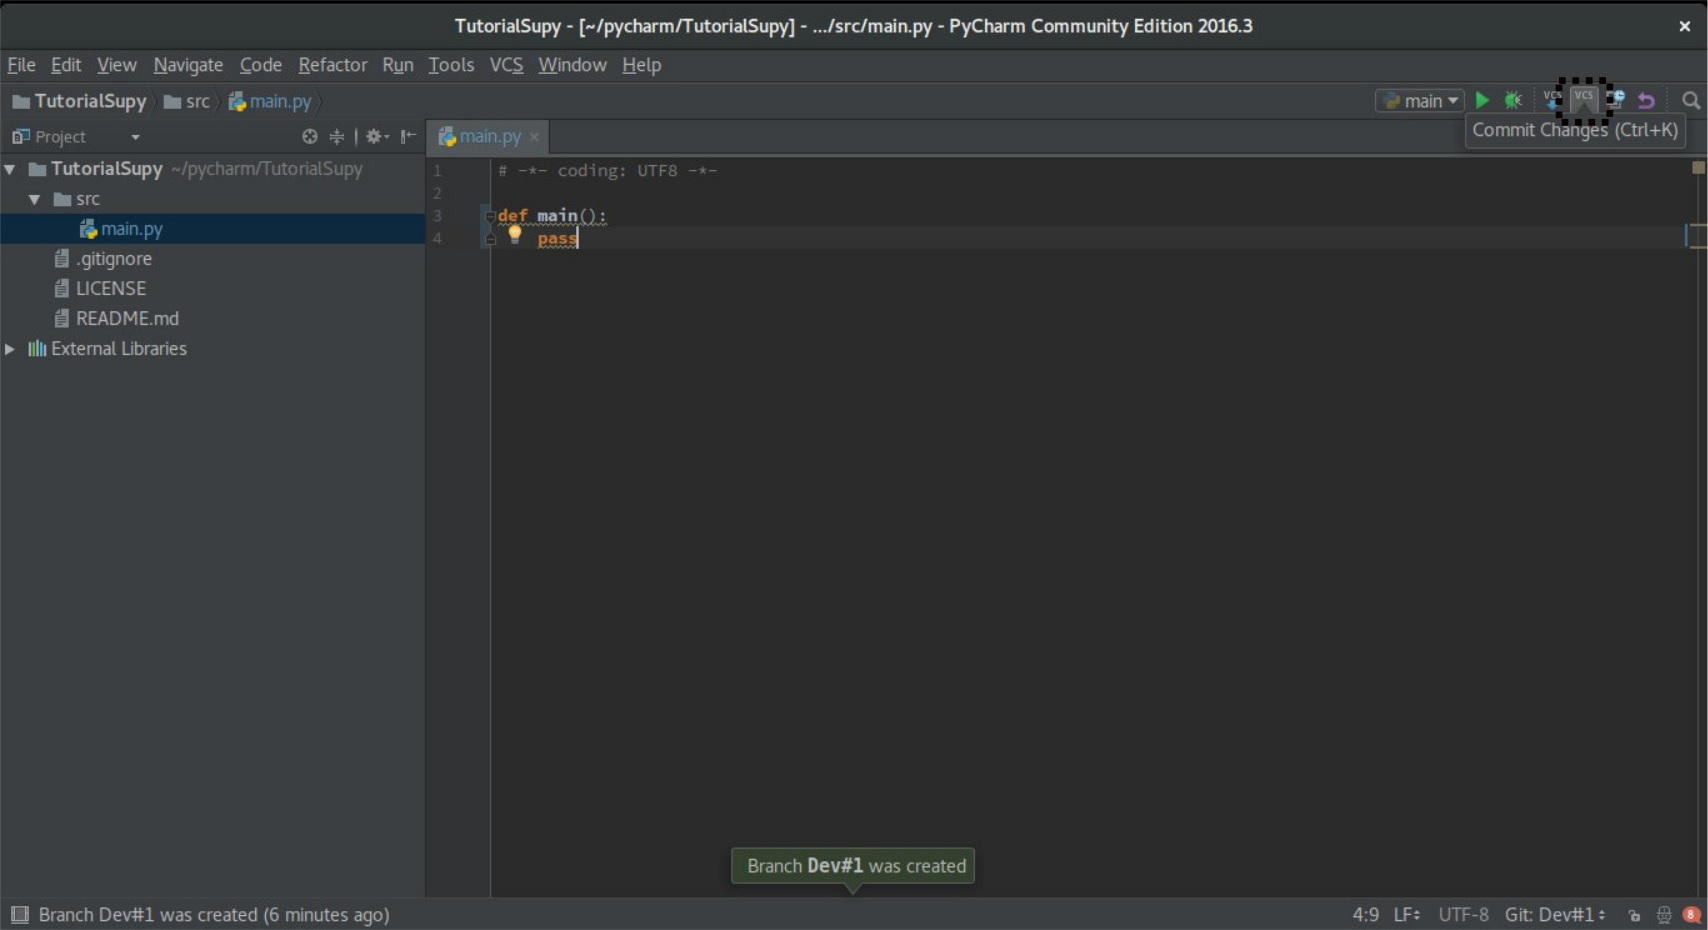
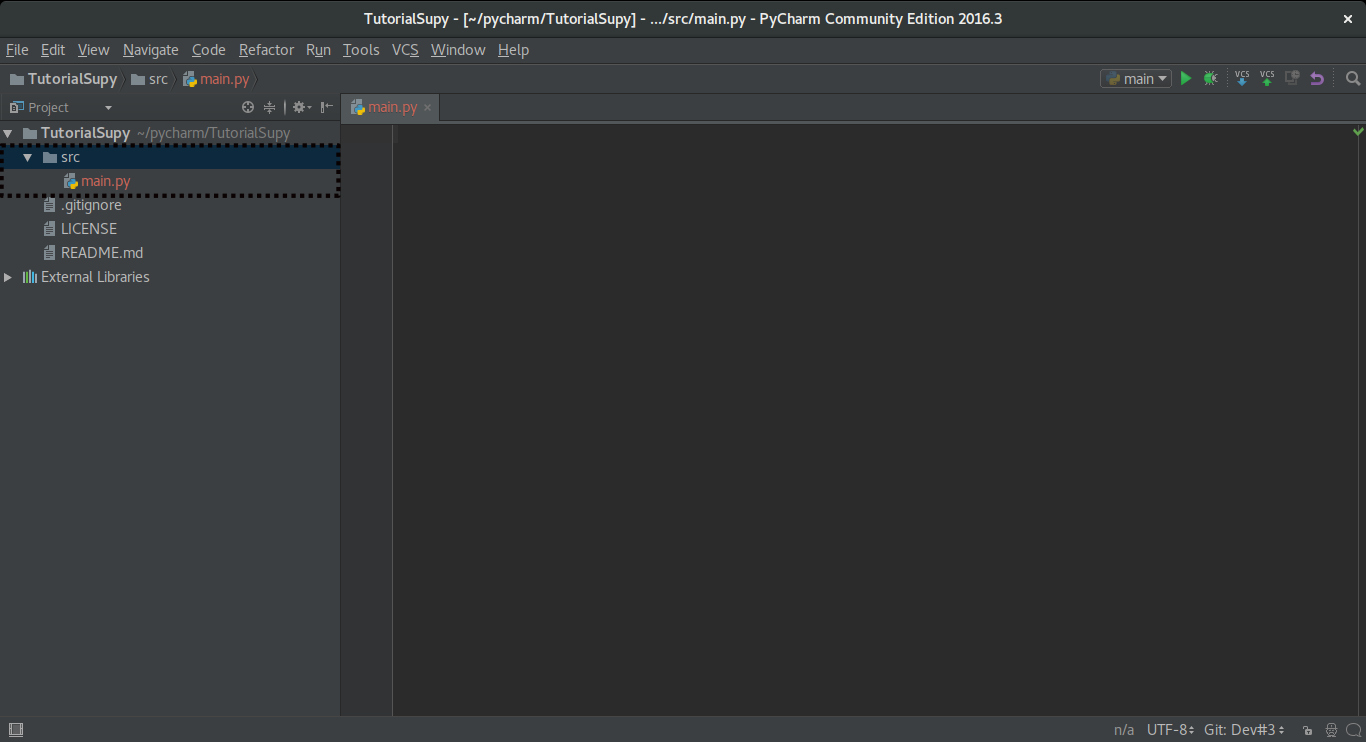
1 espaço

diff --git a/docs/source/tutorial.rst b/docs/source/tutorial.rst
@@ -254,31 +254,57 @@ Insira suas informações de usuário e prima >Login<
             Host: github.com
 
             Auth Type: Password
+
 .. image:: _static/sincronizar3.jpg
+
 Na página seguinte, selecione o repositório do projeto >Git Repository URL<  e a “pasta pai” >Parent Directory<
 -Veja Imagens- Feito isso, prima >Clone<
+
 .. image:: _static/sincronizar4.jpg
+
 Selecione o repositório a sua escolha
+
 .. image:: _static/sincronizar5.jpg
+
 Selecione a pasta "pai" de seu interesse.
+
 .. image:: _static/sincronizar6.jpg
+
 Abrirá um pop-up perguntando se você gostaria de abrio o diretório. Clique no sim.
+
 .. image:: _static/sincronizar7.jpg
 
 COMO ABRIR O PROJETO NO PYCHARM
 -------------------------------
+
 Observe o lado esquerdo do seu cursor e clique na primeira pasta.
+
 .. image:: _static/abrir1.jpg
+
 Clique com o botão direito sobre o projeto > New > Directory> src
+
 .. image:: _static/abrir2.jpg
+
 Clique com o botão direito sobre src> New > Python File > “main”
+
 .. image:: _static/abrir3.jpg
+
 Vai aprir um pop-uppedindo para você confirmar o novo arquivo. Diga ok.
+
 .. image:: _static/abrir4.jpg
+
 Surge a aba do novo arquivo em Python. Porem ela vai esta na cor vermelha.
+
 .. image:: _static/abrir5.jpg
+
 Para que seja realmente adicionado o arquivo, clique com o botão direito em src > git > +add
+
 .. image:: _static/abrir5.jpg
+
+Se o arquivo mudou para a cor azul ele está corretamente adicionado.
+
+.. image:: _static/abrir6.jpg
+
 
 **DOCUMENTOS DE LEITURA**
 =========================
